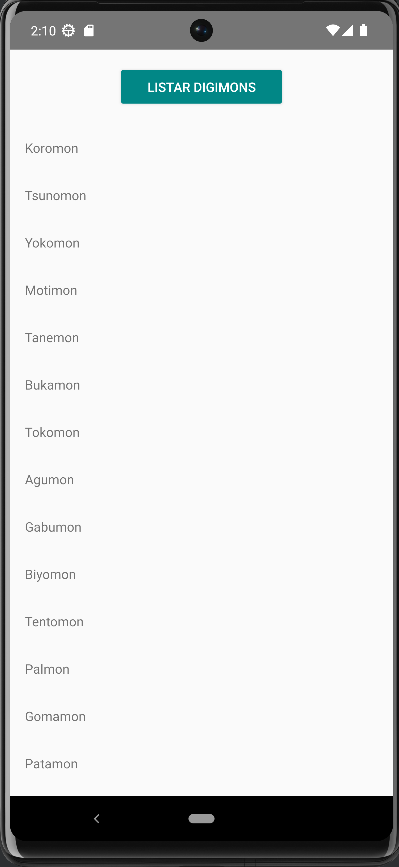
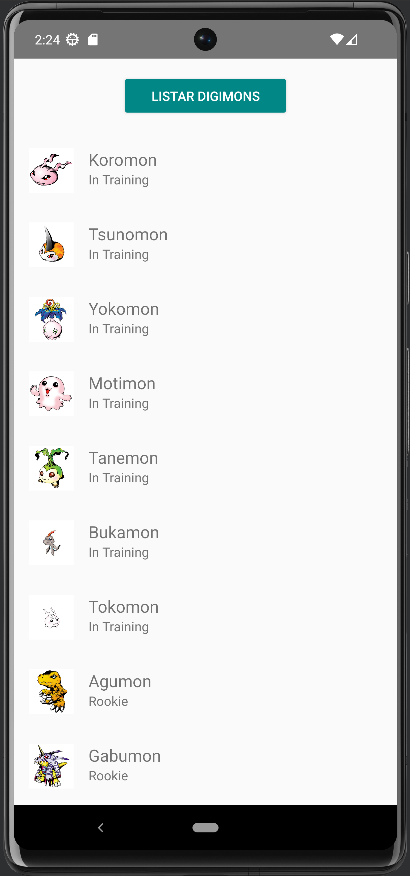
improve list interface and update readme

diff --git a/app/src/main/java/you/thiago/restapi/ui/adapters/DigimonsAdapter.kt b/app/src/main/java/you/thiago/restapi/ui/adapters/DigimonsAdapter.kt
@@ -3,18 +3,24 @@ package you.thiago.restapi.ui.adapters
 import android.view.LayoutInflater
 import android.view.View
 import android.view.ViewGroup
+import android.widget.ImageView
 import android.widget.TextView
 import androidx.recyclerview.widget.RecyclerView
+import com.bumptech.glide.Glide
 import you.thiago.restapi.R
 import you.thiago.restapi.datasource.Digimon
 
 class DigimonsAdapter(private val dataSet: List<Digimon>) : RecyclerView.Adapter<DigimonsAdapter.ViewHolder>() {
 
     class ViewHolder(view: View) : RecyclerView.ViewHolder(view) {
-        val textView: TextView
+        val textName: TextView
+        val textLevel: TextView
+        val imageProfile: ImageView
 
         init {
-            textView = view.findViewById(R.id.txt_name)
+            textName = view.findViewById(R.id.txt_name)
+            textLevel = view.findViewById(R.id.txt_level)
+            imageProfile = view.findViewById(R.id.img_profile)
         }
     }
 
@@ -24,7 +30,12 @@ class DigimonsAdapter(private val dataSet: List<Digimon>) : RecyclerView.Adapter
     }
 
     override fun onBindViewHolder(viewHolder: ViewHolder, position: Int) {
-        viewHolder.textView.text = dataSet[position].name
+        viewHolder.textName.text = dataSet[position].name
+        viewHolder.textLevel.text = dataSet[position].level
+
+        Glide.with(viewHolder.imageProfile.context)
+            .load(dataSet[position].img)
+            .into(viewHolder.imageProfile)
     }
 
     override fun getItemCount() = dataSet.size

diff --git a/app/src/main/java/you/thiago/restapi/MainActivity.kt b/app/src/main/java/you/thiago/restapi/MainActivity.kt
@@ -2,6 +2,7 @@ package you.thiago.restapi
 
 import android.os.Bundle
 import android.widget.Button
+import android.widget.Toast
 import androidx.appcompat.app.AppCompatActivity
 import androidx.compose.foundation.interaction.MutableInteractionSource
 import androidx.compose.foundation.layout.Row
@@ -38,6 +39,8 @@ class MainActivity : FragmentActivity() {
     }
 
     private fun getDigimonData() {
+        Toast.makeText(this, "Carregando...", Toast.LENGTH_SHORT).show()
+
         lifecycleScope.launch(Dispatchers.IO) {
             Service().getDigimons().also { digimons ->
                 if (digimons.isNotEmpty()) {
